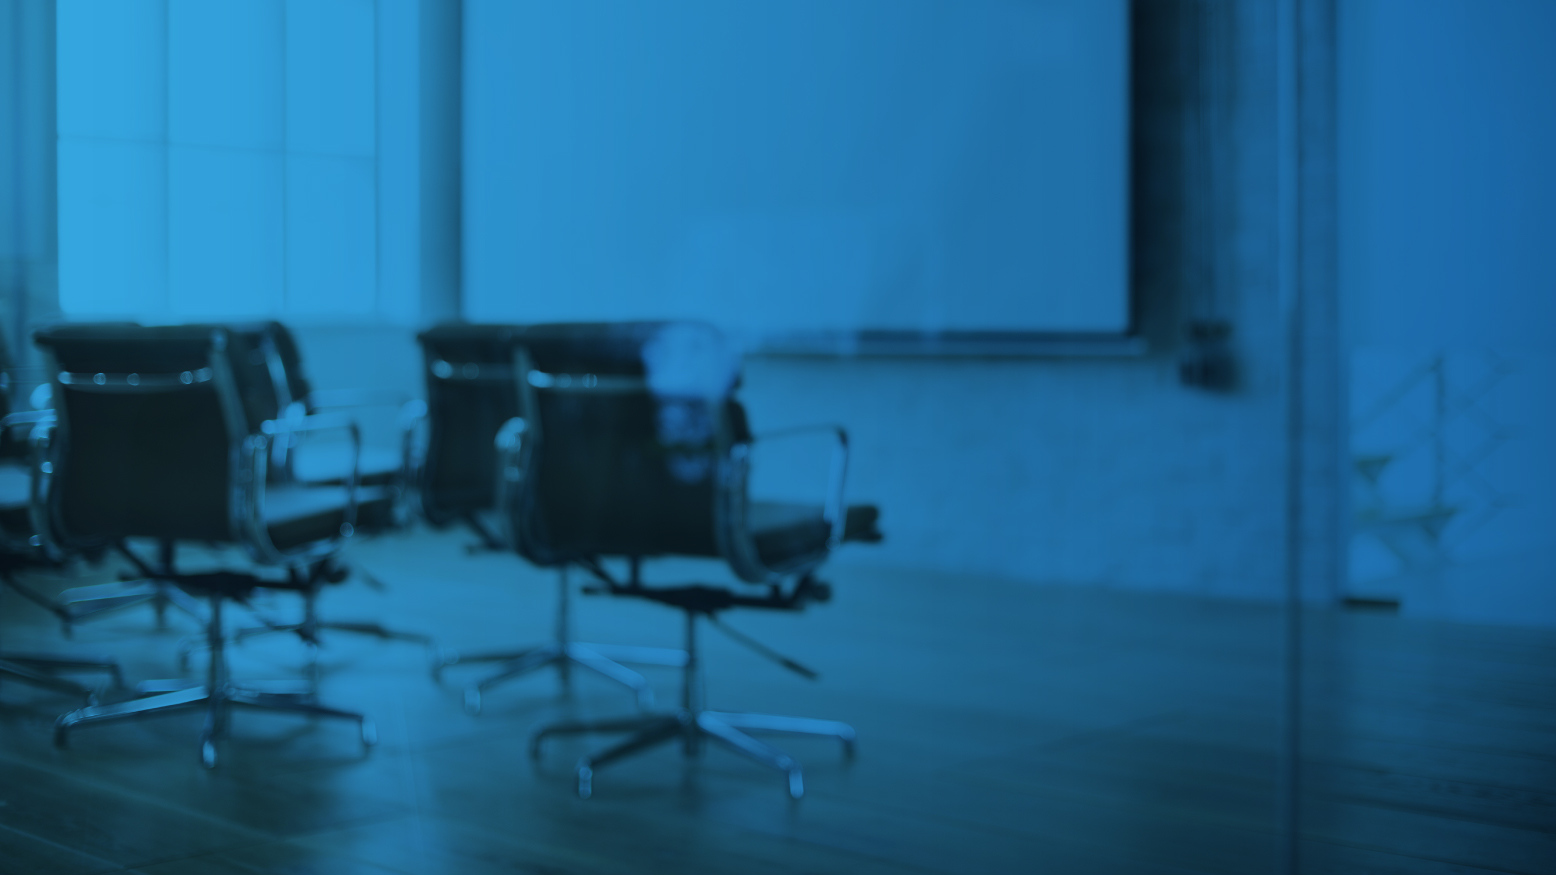
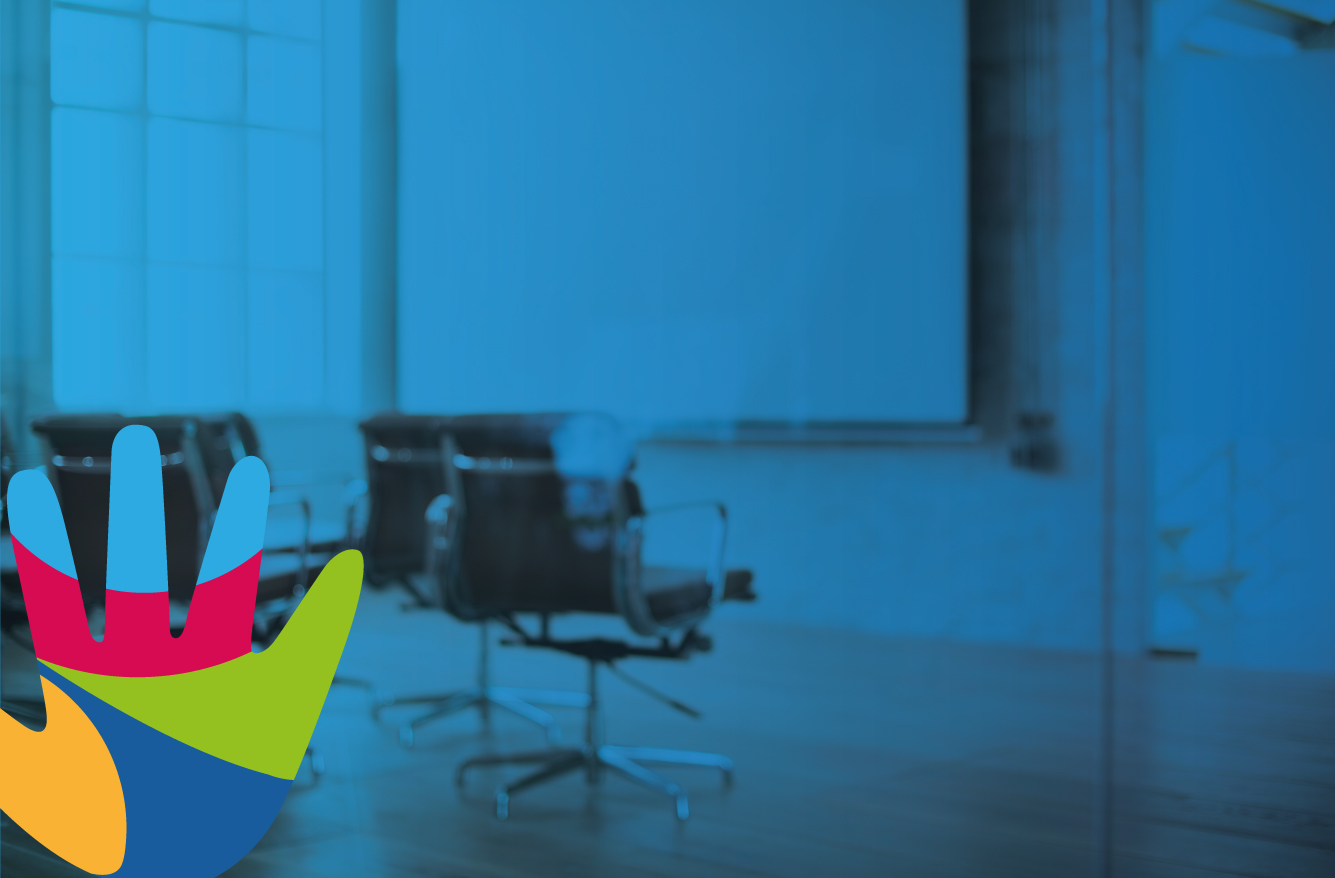
ajustes front

diff --git a/triviApp/src/app/home/nivel/nivel.component.ts b/triviApp/src/app/home/nivel/nivel.component.ts
@@ -31,6 +31,8 @@ export class NivelComponent implements OnInit {
   questionError:any[];
   errorNivel:boolean;
   ruta:string = "../../../assets/img/";
+  pathImgLevel:string = "nivel1";
+  imgLevel:number = 1;
   imgRespuesta:string;
   numIntegrante:number;
   integranteActivo:string;
@@ -100,8 +102,12 @@ export class NivelComponent implements OnInit {
 
   // Cambiar a la siguiente pregunta
   nextQuestion():void{
-    if(this.optionAnswer != undefined)
+    if(this.optionAnswer != undefined){
       this.validateQuestion();
+      if(this.imgLevel >= 5)
+        this.imgLevel = 0;
+      this.imgLevel = this.imgLevel + 1;
+    }
     else
       alert("Seleccionar una respuesta");
   }
@@ -180,22 +186,27 @@ export class NivelComponent implements OnInit {
     this.optionAnswer = null;
   }
 
-  // Mover el marcador del nivel
+  // Custom nivel
   customOptions(nivel:number):void{
     switch (nivel) {
       case 2:
+        this.pathImgLevel = "nivel1";
         this.markeLevel = 14;
         break;
       case 3:
+        this.pathImgLevel = "nivel2";
         this.markeLevel = 85;
         break;
       case 4:
+        this.pathImgLevel = "nivel3";
         this.markeLevel = 156;
         break;
       case 5:
+        this.pathImgLevel = "nivel4";
         this.markeLevel = 227;
         break;
       case 6:
+        this.pathImgLevel = "nivel5";
         this.markeLevel = 299;
         break;
       default:

diff --git a/triviApp/src/app/home/nivel/nivel.component.css b/triviApp/src/app/home/nivel/nivel.component.css
@@ -1,5 +1,6 @@
 .body {
     background-image: url(../../../assets/img/banner1.jpg);
+    background-position: left bottom;
     background-size: cover;
     height: 100%;
     width: 100%;
@@ -10,7 +11,7 @@
 .header {
     justify-content: space-between;
     padding: 20px 30px;
-    align-items: center;
+    align-items: flex-start;
 }
 
 .item-integrante {
@@ -58,8 +59,9 @@
 img.persona {
     position: absolute;
     bottom: 0px;
-    left: 0px;
+    left: 80px;
     max-width: 490px;
+    max-height: 475px;
 }
 .item-integrante img {
     width: 26px;

diff --git a/triviApp/src/app/home/nivel/nivel.component.html b/triviApp/src/app/home/nivel/nivel.component.html
@@ -79,7 +79,7 @@
       <button (click)="navigate('./home/error');" class="btn">Ver Resumen</button>
     </div>
 
-    <img class="persona" src="../../../assets/img/persona1.png">
+    <img class="persona" [src]="ruta+pathImgLevel+'/'+imgLevel+'.png'">
     <div class="estado-nivel">
         <div class="nivel">
             <img src="../../../assets/img/posicion.png"  [ngStyle]="{'left.px': markeLevel}" class="posicionNivel">

diff --git a/triviApp/src/app/home/inicio/inicio.component.html b/triviApp/src/app/home/inicio/inicio.component.html
@@ -3,7 +3,7 @@
         <img class="logoWWB" src="../../../assets/img/logo.png">
     </div>
     <div class="imgen">
-        <img src="../../../assets/img/mano.png">
+        <!-- <img src="../../../assets/img/mano.png"> -->
     </div>
     <div class="flex texto">
         <h1>¡Bienvenidos!</h1>

diff --git a/triviApp/src/app/home/inicio/inicio.component.scss b/triviApp/src/app/home/inicio/inicio.component.scss
@@ -2,6 +2,7 @@ section.inicio{
     flex-flow: column;
     background-image: url(../../../assets/img/banner1.jpg);
     background-repeat: no-repeat;
+    background-position: left bottom;
     height: 100vh;
     width: 100%;
     background-size: cover;
